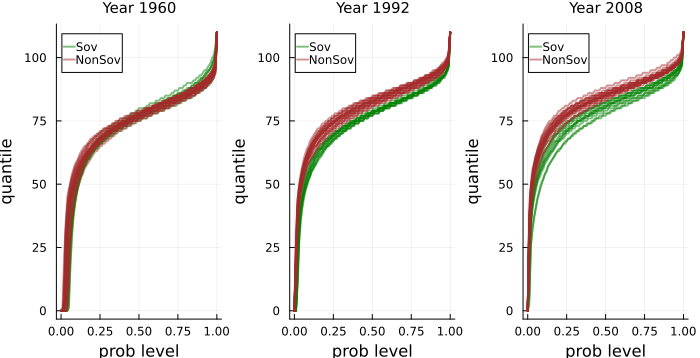
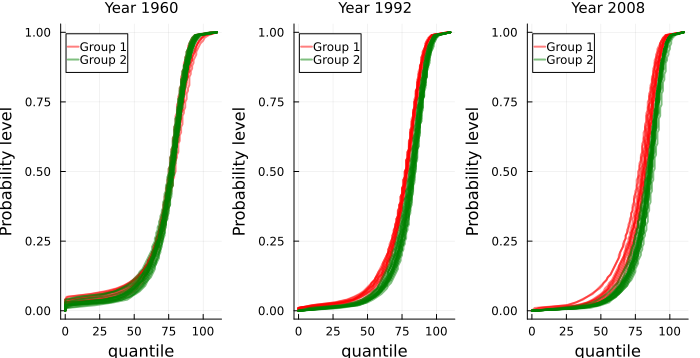
two-sample-testing: added new plots and interpretations

diff --git a/chapters/two-sample-testing/simulations.tex b/chapters/two-sample-testing/simulations.tex
@@ -25,12 +25,14 @@ Q^1 = \mathrm{DP}(\alpha = 1, P_0 = N(0,1)),
 \end{enumerate}
 where $\mathrm{Beta}(a,b)$ is the Beta distribution with shape parameters $a,b$, $\mathcal{N}(\mu, \sigma^2)$ is the Gaussian distribution with mean $\mu$ and variance $\sigma^2$, $\mathrm{Unif}[0,1]$ is the Uniform distribution on the interval $[0,1]$, and $\mathrm{DP}(\alpha, P_0)$ denotes the Dirichlet Process with concentration $\alpha>0$ and base probability $P_0 \in \probx$. Note that if $P_0$ has full support on $\X$, $\mathrm{DP}(\alpha, P_0)$ has full weak support on $\probx$.
 
-To investigate the behaviour of the Type I error, we simulate the data from $Q^1 = Q^2$ equal to each of the examples above $S= 1000$ times, perform our permutation-based test for both the WoW and the HIPM, and report the percentage of times it rejects the (correct) $H_0 = Q^1 = Q^2$ for each significance level $\theta$. In each simulation we set $n=m=n_{\text{perm}}= 100$. The results are shown in Figure~\ref{figure:fp}, where we see that both WoW and HIPM recover a Type I error which is approximately equal to the significance level $\theta$, in all simulation settings. We report only one of the four graphs as the remaining ones do not show any differences. Interestingly, the WoW distance appears to control the Type I error even if our theory does not guaranty it, and both behave well on unbounded settings as well.
+To investigate the behaviour of the Type I error, we simulate the data from $Q^1 = Q^2$ equal to each of the examples above $S= 1000$ times, perform our permutation-based test for both the WoW and the HIPM, and report the percentage of times it rejects the (correct) $H_0 = Q^1 = Q^2$ for each significance level $\theta$. In each simulation we set $n=m=n_{\text{perm}}= 100$. 
+
+The results are shown in Figure~\ref{figure:fp_wow_vs_hipm}, where we see that both WoW and HIPM recover a Type I error which is approximately equal to the significance level $\theta$, in all simulation settings. We report only one of the four graphs as the remaining ones do not show any differences. Interestingly, the WoW distance appears to control the Type I error even if our theory does not guaranty it, and both behave well on unbounded settings as well.
 \begin{figure}[H]
     \centering
       \includegraphics[width = 0.49\linewidth]{chapters/two-sample-testing/figures/wow_vs_hipm/fp_label=1_n=100_m=100_S=1000_n_perm=100.png}
     \caption{False Positive Rates for HIPM and WoW}
-    \label{figure:fp}
+    \label{figure:fp_wow_vs_hipm}
 \end{figure}
 To investigate the power of the test, we simulate the data under the alternative hypothesis $Q^1 \neq Q^2$. For each of the four laws considered above, we associate an alternative law and estimate the power, resulting in the following four cases:
 \begin{align*}
@@ -43,7 +45,7 @@ To investigate the power of the test, we simulate the data under the alternative
 \text{D.} \quad & Q^1 = \mathrm{DP}(\alpha = 1, P_0 = \N(0,1)) \\
                 & Q^2 = \mathrm{DP}(\alpha = 2, P_0 = \N(0,1))
 \end{align*}
-As before, we sample the observations $S= 1000$ times, perform our permutation-based test for both the WoW and the HIPM, and report the empirical power, that is, 1 minus the percentage of times it rejects the (incorrect) $H_0 = Q^1 = Q^2$ for each significance level $\theta$, setting $n=m=n_{\text{perm}}= 100$. \textcolor{red}{missing interpretation}
+As before, we sample the observations $S= 1000$ times, perform our permutation-based test for both the WoW and the HIPM, and report the empirical power, that is, 1 minus the percentage of times it rejects the (incorrect) $H_0 = Q^1 = Q^2$ for each significance level $\theta$, setting $n=m=n_{\text{perm}}= 100$.
 
 \begin{figure}[H]
     \centering
@@ -70,6 +72,8 @@ As before, we sample the observations $S= 1000$ times, perform our permutation-b
     \caption{Power for WoW and HIPM}
     \label{figure:tp_wow_vs_hipm}
 \end{figure}
+
+The results presented in Figure~\ref{figure:tp_wow_vs_hipm} indicate that HIPM and WoW achieve comparable power in Cases A and B. In Case C, HIPM exhibits slightly higher power than WoW. A more pronounced difference emerges in Case D, where WoW achieves substantially higher power than HIPM. Understanding the conditions under which one method dominates the other remains an open question. One possible direction is to examine the signal-to-noise ratio of the underlying testing problem.
 
 
 \subsection{Empirical comparison with existing methods}\label{subsection:comparison_of_all_methods}
@@ -134,7 +138,7 @@ For each setting we simulate the data $S=1000$ times, perform all tests on the s
     \caption{Rejection rates for WoW, HIPM, Fr\'echet and Energy tests}
     \label{figure:rejections_mean_variance}
 \end{figure}
-\textcolor{red}{missing interpretation}
+As seen in Figure~\ref{figure:rejections_mean_variance}, all testing schemes maintain low Type I error across both settings. When the distributions differ in mean (left plot), the Energy, WoW, and HIPM tests achieve higher power than the Fr\'echet test. In contrast, when the distributions differ in variance (right plot), the Fr\'echet test attains the highest power among all methods. Furthermore, in the variance setting, both HIPM and WoW outperform the Energy test.
 
 
 The final simulation on the synthetic dataset is designed to demonstrate the necessity of distance-based testing. Note that the underlying assumption behind the Fr\'echet test is that the Fr\'echet mean and variance are sufficient to distinguish between two different laws of random probability measures. However, laws of RPMs are not always uniquely characterized by their Fr\'echet means and variances.
@@ -158,12 +162,13 @@ Note that $\lambda = 1$ corresponds to estimating the Type~I error, while other 
 \begin{figure}[H]
     \centering
     \includegraphics[width=0.43\textwidth]{chapters/two-sample-testing/figures/all_schemes/counterexample_n=100_m=200_S=1000_bootstrap=false_n_samples=100.png}
-    \caption{}
+    \caption{Rejection rates for WoW, HIPM, Fr\'echet and Energy tests}
     \label{figure:counterexample}
 \end{figure}
 
 As observed in the Figure \ref{figure:counterexample}, since the two distributions induce the same Fr\'echet means and variances, the method proposed in \cite{dubey2019frechet} fails to detect the presence of different laws. In contrast, the HIPM and WoW tests perform slightly better than Energy test in identifying the discrepancy.
 
+To conclude, although the Fr\'echet test can exhibit higher power than the other testing schemes in certain settings, its main limitation is that it fails to detect the difference when the laws of random probability measures are not fully characterized by the Fr\'echet mean and variance. The Energy test, as well as permutation tests based on HIPM or WoW, mitigate this limitation. Moreover, HIPM and WoW may be preferable to the Energy test in practice, since the underlying metric space, in our case, the space of probability measures, may fail to be of strongly negative type, or this property may be difficult to verify.
 
 
 \subsection{Mortality Data}\label{subsection:mortality_data}
@@ -194,48 +199,45 @@ In Figure \ref{figure:quantile_for_mortality_rates}, we present the quantile plo
     \caption{Quantile plots of the age-at-death probability mass functions for the two country groups}
     \label{figure:quantile_for_mortality_rates}
 \end{figure}
-To assess whether there is a difference in mortality proportions between the two groups of countries in each time period, we apply our proposed test separately for males and females. We set the significance level to $\theta = 0.05$ and use $n_{\text{perm}} = 100$ permutations to compute a
+To assess whether there is a difference in mortality proportions between the two groups of countries in each time period, we apply tests using HIPM and WoW separately for males and females. We set the significance level to $\theta = 0.05$ and use $n_{\text{perm}} = 100$ permutations to compute a
 different p-value for each year.
 
 We also compare the p-values obtained from our approach with those derived from the following alternative methods:
 \begin{itemize}
-    \item Averaging: Given $\widehat{P}^1_1,\cdots, \widehat{P}^1_{n_1}$ from group 1 and $\widehat{P}^2_1,\cdots, \widehat{P}^2_{n_2}$ from group 2, we obtain average probability measures inside each group, i.e.
-    \[
-    \overline{P}^1 = \frac{1}{n_1}\sum_{i = 1}^{n_1}\widehat{P}^1_i, \quad 
-    \overline{P}^2 = \frac{1}{n_2}\sum_{i = 1}^{n_2}\widehat{P}^2_i.
-    \]
-    The test statistic is obtained by computing Wasserstein-1 distance between $\overline{P}^1$ and $\overline{P}^2.$ The threshold is obtained via a permutation approach, in which the observed probability measures are permuted across the two groups.
-    \item \textbf{Pooling:} This approach is included to emphasize the importance of preserving the probability-measure structure within each group. Since the goal is to compare mortality proportions across the two groups, one might instead ignore the country-level distributional structure and simply aggregate deaths within each group. This aggregation produces a single probability measure for each group, and the test statistic is then computed as the Wasserstein-1 distance between these two measures. As before, the significance threshold is obtained using a permutation procedure. Because the data for each country consist of death counts by age, we first convert these counts into observations of age at death. Specifically, if there are $k$ deaths at age $a$, we generate $k$ observations equal to $a$. This is done separately for each group. The resulting age-at-death observations are then permuted across the two groups, which allows the permutation procedure to operate directly on individual age-at-death observations rather than on aggregated counts.
+\item Averaging: Given $\widehat{P}^1_1,\cdots, \widehat{P}^1_{n_1}$ from group 1 and $\widehat{P}^2_1,\cdots, \widehat{P}^2_{n_2}$ from group 2, we obtain average probability measures inside each group, i.e.
+\[
+\overline{P}^1 = \frac{1}{n_1}\sum_{i = 1}^{n_1}\widehat{P}^1_i, \quad
+\overline{P}^2 = \frac{1}{n_2}\sum_{i = 1}^{n_2}\widehat{P}^2_i.
+\]
+The test statistic is obtained by computing Wasserstein-1 distance between $\overline{P}^1$ and $\overline{P}^2.$ The threshold is obtained via a permutation approach, in which the observed probability measures are permuted across the two groups.
+\item Pooling: This approach is included to emphasize the importance of preserving the probability-measure structure within each group. Since the goal is to compare mortality proportions across the two groups, one might instead ignore the country-level distributional structure and simply aggregate deaths within each group. This aggregation produces a single probability measure for each group, and the test statistic is then computed as the Wasserstein-1 distance between these two measures. As before, the significance threshold is obtained using a permutation procedure. Because the data for each country consist of death counts by age, we first convert these counts into observations of age at death. Specifically, if there are $k$ deaths at age $a$, we generate $k$ observations equal to $a$. This is done separately for each group. The resulting age-at-death observations are then permuted across the two groups, which allows the permutation procedure to operate directly on individual age-at-death observations rather than on aggregated counts.
 \end{itemize}
-
 Note that the test statistic is identical for both the pooling and averaging approaches; the difference between the two testing schemes lies in the permutation procedure. In particular, the averaging approach preserves the probability measure structure within each group, whereas the pooling approach does not.
 
-Examining the p-values obtained from the proposed method in Figure \ref{figure::p_values_mortality}, we observe that for females, the difference between the groups is statistically significant in 1960. During the following decade, this difference becomes less significant, which may be explained by economic growth. After the 1970s, the disparity in mortality proportions between the groups increases again, potentially reflecting the economic decline in the countries in group $1$. Following the breakup of the Soviet Union, the observed differences may be associated with countries that were unable to integrate well into the Western blocks.
+Examining the p-values obtained from the methods all methods in Figure \ref{figure::p_values_mortality}, we observe that for females, the difference between the groups is statistically significant in 1960. During the following decade, this difference becomes less significant under the methods based on HIPM, WoW and Averaging, which may be explained by economic growth. After the 1970s, the disparity in mortality proportions between the groups increases again, potentially reflecting the economic decline in the countries in group $1$. Following the breakup of the Soviet Union, the observed differences may be associated with countries that were unable to integrate well into the Western blocks.
 
-A similar trend is observed for males; however, the key difference is that during the period from 1960 to 1970, althouth the differences in mortality proportions was decreasing, the p-values did not exceed the $0.05$ threshold.
-\begin{figure}[H]
+A similar trend is observed for males; however, the key difference is that during the period from 1960 to 1970, althouth the differences in mortality proportions was decreasing, this was not statistically significant in all of those years.
+\begin{figure}[htbp]
     \centering
     \begin{subfigure}{0.5\textwidth} % Increased width since they are stacked
         \centering
-        \includegraphics[width=\linewidth]{chapters/two-sample-testing/figures/mortality/males_pvalues_poolingaveraginghipm.png}
+        \includegraphics[width=\linewidth]{chapters/two-sample-testing/figures/mortality/pvalues_males.png}
         \caption{Males}
     \end{subfigure}
     \\ % <--- This line break forces the next subfigure down
     \begin{subfigure}{0.5\textwidth}
         \centering
-        \includegraphics[width=\linewidth]{chapters/two-sample-testing/figures/mortality/females_pvalues_poolingaveraginghipm.png}
+        \includegraphics[width=\linewidth]{chapters/two-sample-testing/figures/mortality/pvalues_females.png}
         \caption{Females}
     \end{subfigure}
     \caption{P-values for mortality proportions}
     \label{figure::p_values_mortality}
 \end{figure}
 
-Note also that p-values for averaging and HIPM look similar. This is because the average measure in this case is sufficient to detect the difference between two groups.
+Note also that p-values for averaging, HIPM and WoW have similar trend. This is because the average measure in this case is sufficient to detect the difference between two groups.
 
 
-
-
-Note that pooling procedure may fail to control the Type I error in hierarchical sampling settings. Pooling ignores the fact that observations within each country are generated from a latent random probability measure. Under hierarchical sampling, where we observe $n$ sequences of length $m$, each generated from a different latent random probability measure, The empirical distribution obtained by pooling all observations converges to the mean measure of the law of the random probability measure. Hence, the pooled test statistic converges to the Wasserstein distance between the two group-level mean measures. In contrast, the permutation samples behave as if they were drawn directly from this mean measure, with an effective sample size of $nm$. As a result, the permutation threshold converges to zero faster than the observed distance, leading to systematically small p-values. This issue disappears when the latent probability measures are identical.
+We also observe important issue regarding the pooling which is more general for hierarchical sampling.In particular, pooling procedure may fail to control the Type I error in hierarchical sampling settings. This is because, pooling ignores the fact that observations within each country are generated from a latent random probability measure. Under hierarchical sampling, where we observe $n$ sequences of length $m$, each generated from a different latent random probability measure, The empirical distribution obtained by pooling all observations converges to the mean measure of the law of the random probability measure. Hence, the pooled test statistic converges to the Wasserstein distance between the two group-level mean measures. In contrast, the permutation samples behave as if they were drawn directly from this mean measure, with an effective sample size of $nm$. As a result, the permutation threshold converges to zero faster than the observed distance, leading to systematically small p-values. This issue disappears when the latent probability measures are identical.
 
 
 